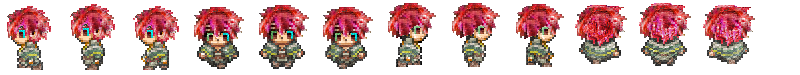
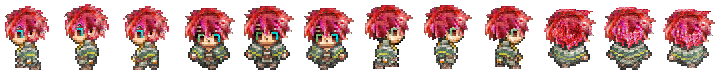
fixed, player only stay on top

diff --git a/src/scenes/Play.js b/src/scenes/Play.js
@@ -11,7 +11,7 @@ class Play extends Phaser.Scene {
         this.load.image('blocker','./assets/bar.png');
         // Test Assets
         this.load.spritesheet('button', './assets/button.png', {frameWidth: 48, frameHeight: 24, startFrame: 0, endFrame: 1});
-        this.load.spritesheet('miku', './assets/miku.png', {frameWidth: 50, frameHeight: 50, startFrame: 0, endFrame: 3});
+        this.load.spritesheet('miku', './assets/player.png', {frameWidth: 60, frameHeight: 75, startFrame: 0, endFrame: 2});
     }
 
     create() {
@@ -52,7 +52,7 @@ class Play extends Phaser.Scene {
         //create player animate
         this.anims.create({
             key: 'a1',            
-            frames: this.anims.generateFrameNumbers('miku', {start: 0, end: 3, first: 0}),
+            frames: this.anims.generateFrameNumbers('miku', {start: 0, end: 2, first: 0}),
             frameRate: 4,
             repeat: -1
         });
@@ -67,13 +67,14 @@ class Play extends Phaser.Scene {
         this.input.on('pointerdown', function (gamePointer)
         {
             //this.arrow.setPosition(gamePointer.x, gamePointer.y);
+            if(gamePointer.y<=2*game.config.height/3){
             this.ptr.x=gamePointer.x;
             this.ptr.y=gamePointer.y;
             this.player.play('a1');
-            this.physics.moveToObject(this.player, gamePointer, 400);  //player speed, can always change         
+            this.physics.moveToObject(this.player, gamePointer, 400); } //player speed, can always change         
             //////////////////////////////////////////////////////
             //I need to add more logic here to keep the player stay in the top half
-        },this);
+        },this)
         // Add a new hp bar deatures: Hp.increase(var) Hp.decrease(var);
         this.hp= new Hp(this,game.config.width / 3, game.config.height/2+120);
     }
